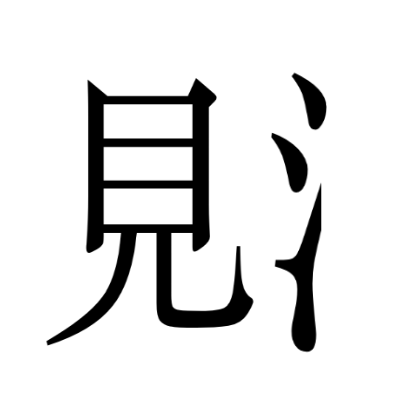
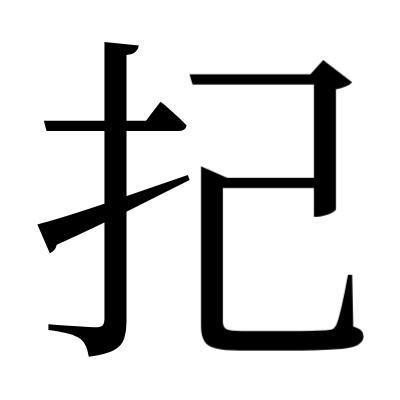
Pilot set v2: use the team's remade P015, P027 and P031 (items_6)
Claude-Session: https://claude.ai/code/session_014HhAB1StJYgUBBXRcFPzQr

Changed region(s): [[0.09, 0.09, 0.93, 0.9]]

diff --git a/stimuli/sets/pilot-v2/merge_team_csvs.py b/stimuli/sets/pilot-v2/merge_team_csvs.py
@@ -2,7 +2,8 @@ import csv, shutil, sys, os
 src = sys.argv[1]; out = sys.argv[2]
 def rows(p): return list(csv.DictReader(open(os.path.join(src, p), encoding='utf-8-sig')))
 real_order2 = '毽鯇氖懿葳玨掂賅蚺綪哏蒿要的是枋輯蒻粵嬡鑫騂酢恬蹔皷萻孖釗閿'
-# final pseudo id -> (file, original id); derived from image modification times and visual check
+# final pseudo id -> (file, original id); derived from image modification times and a visual check
+# of every image. Later batches (items_5, items_6) hold remade items that replace earlier rows.
 pmap = {}
 for i in [1,7,9,10,13,15,16,17,18,19,20,22,23,24,25,26,27,28,29,30,31]: pmap[i] = ('items_1.csv', i)
 for i in [2,3,4,5,6,11,12]: pmap[i] = ('items_2.csv', i)
@@ -10,6 +11,7 @@ pmap.update({21: ('items_2.csv', 1), 32: ('items_2.csv', 8), 33: ('items_2.csv',
 i3 = [1,2,3,4,7] + list(range(9, 26))
 for k, o in zip(range(37, 59), i3): pmap[k] = ('items_3.csv', o)
 pmap.update({8: ('items_5.csv', 1), 14: ('items_5.csv', 2), 39: ('items_5.csv', 4)})
+pmap.update({15: ('items_6.csv', 2), 27: ('items_6.csv', 3), 31: ('items_6.csv', 1)})
 pmap.update({59: ('items_4.csv', 3), 60: ('items_4.csv', 2), 61: ('items_4.csv', 6), 62: ('items_4.csv', 7), 63: ('items_4.csv', 8), 64: ('items_4.csv', 9), 65: ('items_4.csv', 10)})
 assert sorted(pmap) == list(range(1, 66))
 assert len(set(pmap.values())) == 65
@@ -20,7 +22,7 @@ assert sorted(r2) == sorted(real_order2)
 for n, r in enumerate(r1 + [r2[c] for c in real_order2], 1):
     r = dict(r); r['source_file'] = 'real words/' + ('items_1.csv' if n <= 60 else 'items_2.csv'); r['source_item_id'] = r['item_id']
     out_rows.append(r | {'item_id': f'R{n:03d}', 'image': f'R{n:03d}.png'})
-pf = {f: {r['item_id']: r for r in rows('fake words/' + f)} for f in ['items_1.csv','items_2.csv','items_3.csv','items_4.csv','items_5.csv']}
+pf = {f: {r['item_id']: r for r in rows('fake words/' + f)} for f in ['items_1.csv','items_2.csv','items_3.csv','items_4.csv','items_5.csv','items_6.csv']}
 used = set()
 for k in range(1, 66):
     f, o = pmap[k]; r = dict(pf[f][f'P{o:03d}']); used.add((f, o))

diff --git a/stimuli/sets/pilot-v2/README.md b/stimuli/sets/pilot-v2/README.md
@@ -30,10 +30,13 @@ kept their own IDs. The script's mapping was worked out from the file modificati
 
 - Real R001-R060: `real words/items_1.csv`, same IDs.
 - Real R061-R090: `real words/items_2.csv`, matched by the character shown in each image.
-- Pseudo: 68 rows in five batches for 65 images. Three rows were replaced by remade versions
-  in `items_5.csv` and are not in `items.csv`: `items_1.csv` P008 (脹+辛, replaced by P008
-  胖+鋅), `items_1.csv` P014 (祕+晴, replaced by P014, a remake of the same pair), and
-  `items_3.csv` P003 (易+意, replaced by P039 易+煮).
+- Pseudo: 71 rows in six batches for 65 images. Later batches hold items that replace earlier
+  ones, so six rows are not in `items.csv`:
+  - `items_5.csv` replaces `items_1.csv` P008 (脹+辛, now P008 胖+鋅), `items_1.csv` P014
+    (祕+晴, now P014, a remake of the same pair) and `items_3.csv` P003 (易+意, now P039 易+煮).
+  - `items_6.csv` replaces `items_1.csv` P015 (見+沁, now P015 打+紀), `items_1.csv` P027
+    (晴+佔, now P027 趕+項) and `items_1.csv` P031 (干+頁, which formed the real character 頇;
+    now P031 靚+蛀).
 
 The full mapping is in the `source_file` and `source_item_id` columns.
 
@@ -42,13 +45,10 @@ The full mapping is in the `source_file` and `source_item_id` columns.
 Every item must be checked by a person (see the maker's README). Items to look at first,
 found while merging (component readings are from the images and may be wrong):
 
-- P031 (干+頁) is the real character 頇 (U+9807), which is also real item R041.
 - P045 (月+巴 as rendered) looks like the real character 肥.
 - Some pseudo-characters are encoded in Unicode (found in cjkvi-ids,
   https://github.com/cjkvi/cjkvi-ids), for example P002 洔, P007 佊, P008 𦛛, P025 𡧟,
-  P026 㛡, P033 𨈕, P034 芇, P043 萑, P063 𤡕, P065 𪢪. Check each against the MOE
+  P015 𢩵, P026 㛡, P033 𨈕, P034 芇, P043 萑, P063 𤡕, P065 𪢪. Check each against the MOE
   Dictionary of Chinese Character Variants (https://dict.variants.moe.edu.tw/).
 - P009 looks close to 焦, P054 to 聊, P064 to 朝.
-- P015: the right-hand component is cut incompletely.
-- P027: strokes are visibly thicker than in the other items.
 - The set has 90 real and 65 pseudo items, not 1:1 [TBD: the team decides the ratio].
